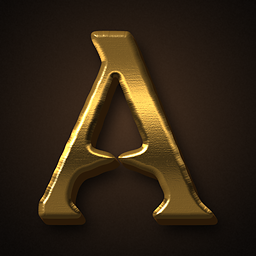
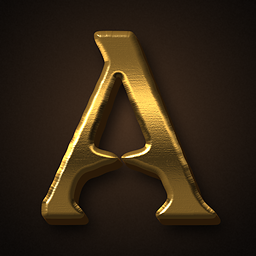
Workshop image: 3 px to the right (user: a bit more to the right)

diff --git a/tools/make_game_a_3d.py b/tools/make_game_a_3d.py
@@ -27,6 +27,7 @@ import trace_game_a as T  # noqa: E402
 
 OUT = os.path.join(T.OUT, "3d")
 FINAL = os.path.join(os.path.dirname(T.OUT), "smart_ability_autocast.png")
+FINAL_NUDGE_X = 3.0   # pixels of the 256 tile, to the right of the measured centre (user 2026-11-21)
 N = 1024
 S = N / 256.0
 
@@ -47,7 +48,7 @@ def letter_mask(d, box, height=188, top=26, cx=124):
     return np.asarray(img, dtype=np.float32)[:, :, 3] / 255.0
 
 
-def centred_mask(d, box, extrude):
+def centred_mask(d, box, extrude, nudge_x=0.0):
     """The letter moved so the solid object (the face, plus its side when extruded) is centred in the tile (user
     2026-11-21: "Number 1, but please center it"). The soft shadow is left out of the measure: it is not part of the
     object, and including it would pull the letter up and left."""
@@ -57,7 +58,7 @@ def centred_mask(d, box, extrude):
         dep = 7 * S
         solid = np.maximum(mask, ndimage.shift(mask, (dep * 0.9, dep * 0.65), order=1))
     ys, xs = np.where(solid > 0.5)
-    dx = 128 - (xs.min() + xs.max() + 1) / 2 / S
+    dx = 128 - (xs.min() + xs.max() + 1) / 2 / S + nudge_x
     dy = 128 - (ys.min() + ys.max() + 1) / 2 / S
     return letter_mask(d, box, top=26 + dy, cx=124 + dx)
 
@@ -185,7 +186,9 @@ def main():
     print("wrote", sp)
     # THE CHOSEN IMAGE (user 2026-11-21: "Number 1, but please center it"): version 1, centred, as the Workshop
     # preview. The launcher wants it named like the pack and placed next to it in data\ at upload time.
-    final = compose(centred_mask(d, box, True), "gold", "brushed", True)
+    # FINAL_NUDGE_X: tuned by eye by the user ("A bit more to the right please"): the dark side reads as shadow, so
+    # the bright face alone looked left of centre.
+    final = compose(centred_mask(d, box, True, FINAL_NUDGE_X), "gold", "brushed", True)
     final.save(FINAL, "PNG", optimize=True)
     assert final.size == (256, 256) and os.path.getsize(FINAL) < 1024 * 1024
     print("wrote", FINAL, os.path.getsize(FINAL), "bytes")
